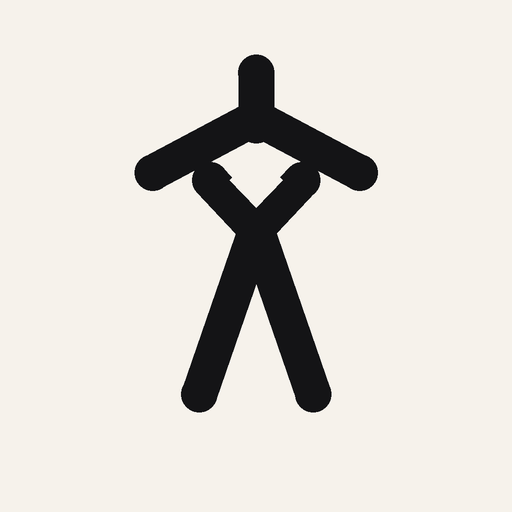
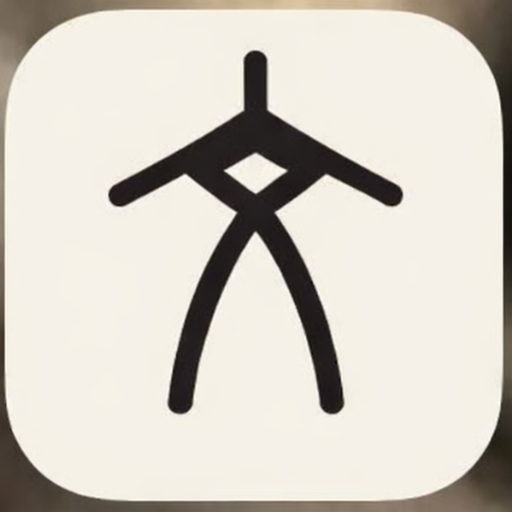
5

Changed region(s): [[0.1875, 0.0938, 0.8125, 0.8125], [0.0, 0.0, 1.0, 1.0]]

diff --git a/app.js b/app.js
@@ -6,17 +6,17 @@ const state = {
   quizDeck: [],
   quizIndex: -1,
   current: null,
-  zoom: 1,
   imageShown: false,
   toolsOpen: false,
   maxCardId: 0,
+  recentOnly: false,
 };
 
 const els = {
   promptCard: document.getElementById('promptCard'),
   quizPrompt: document.getElementById('quizPrompt'),
   quizInfo: document.getElementById('quizInfo'),
-  zoomLabel: document.getElementById('zoomLabel'),
+  viewerMeta: document.getElementById('viewerMeta'),
   imageStage: document.getElementById('imageStage'),
   imageViewport: document.getElementById('imageViewport'),
   viewerTitle: document.getElementById('viewerTitle'),
@@ -34,10 +34,8 @@ const els = {
   nextBtn: document.getElementById('mobileNextBtn'),
   revealBtn: document.getElementById('mobileRevealBtn'),
   shuffleBtn: document.getElementById('shuffleBtn'),
-  resetZoomBtn: document.getElementById('resetZoomBtn'),
-  zoomOutBtn: document.getElementById('zoomOutBtn'),
-  zoomInBtn: document.getElementById('zoomInBtn'),
-  fitBtn: document.getElementById('fitBtn'),
+  latestBtn: document.getElementById('latestBtn'),
+  recentBtn: document.getElementById('recentBtn'),
   hideBtn: document.getElementById('hideBtn'),
   randomBtn: document.getElementById('randomBtn'),
   progressFill: document.getElementById('progressFill'),
@@ -68,17 +66,8 @@ function escapeHtml(text){
     .replaceAll("'", '&#39;');
 }
 
-function setZoom(value, persist = true){
-  state.zoom = clamp(Math.round(value * 100) / 100, 0.5, 5);
-  const img = document.getElementById('quizImage');
-  if (img && !isMobileLayout()) {
-    img.style.transform = `scale(${state.zoom})`;
-  } else if (img) {
-    img.style.transform = 'none';
-    state.zoom = 1;
-  }
-  els.zoomLabel.textContent = `${Math.round(state.zoom * 100)}%`;
-  if (persist) persistState();
+function setViewerMeta(text = '完整顯示'){
+  if (els.viewerMeta) els.viewerMeta.textContent = text;
 }
 
 function setRevealButtonLabels(){
@@ -122,6 +111,7 @@ function updateQuizInfo(){
     updateProgress();
     renderPromptBadges();
     setRevealButtonLabels();
+    if (els.recentBtn) els.recentBtn.textContent = state.recentOnly ? '顯示全部卡片' : '只看近期新增';
     return;
   }
   if (!state.quizDeck.length || state.quizIndex < 0 || !state.current) {
@@ -140,6 +130,7 @@ function updateQuizInfo(){
 
 function showPlaceholder(text){
   els.viewerTitle.textContent = '圖片';
+  setViewerMeta('未顯示');
   els.imageStage.innerHTML = `<div class="placeholder">${escapeHtml(text)}</div>`;
   setRevealButtonLabels();
 }
@@ -168,7 +159,7 @@ function selectCard(card, options = {}){
   state.imageShown = Boolean(options.showImage);
   els.quizPrompt.textContent = card.title || card.name;
   els.viewerTitle.textContent = card.title || '圖片';
-  setZoom(1, false);
+  setViewerMeta('完整顯示');
 
   if (options.showImage) {
     renderImage();
@@ -188,28 +179,7 @@ function renderImage(){
   const img = document.getElementById('quizImage');
   img.addEventListener('load', () => {
     els.imageViewport.scrollTop = 0;
-    if (isMobileLayout()) {
-      img.style.transform = 'none';
-      els.zoomLabel.textContent = '100%';
-    } else {
-      setZoom(state.zoom, false);
-    }
-  });
-
-  let lastTap = 0;
-  img.addEventListener('dblclick', event => {
-    event.preventDefault();
-    if (isMobileLayout()) return;
-    if (state.zoom > 1.1) setZoom(1);
-    else setZoom(2.2);
-  });
-  img.addEventListener('touchend', () => {
-    const now = Date.now();
-    if (now - lastTap < 260 && !isMobileLayout()) {
-      if (state.zoom > 1.1) setZoom(1);
-      else setZoom(2.2);
-    }
-    lastTap = now;
+    setViewerMeta(img.naturalHeight > img.naturalWidth * 1.35 ? '長圖 · 可上下滑動' : '完整顯示');
   });
 
   state.imageShown = true;
@@ -279,10 +249,26 @@ function pickRandomCard(){
 
 function filterCards(){
   const q = els.searchInput.value.trim().toLowerCase();
+  const source = state.recentOnly ? state.cards.filter(isLatestCard) : state.cards;
   state.filteredCards = !q
-    ? [...state.cards]
-    : state.cards.filter(card => (card.title || '').toLowerCase().includes(q) || (card.name || '').toLowerCase().includes(q));
+    ? [...source]
+    : source.filter(card => (card.title || '').toLowerCase().includes(q) || (card.name || '').toLowerCase().includes(q));
   renderCardList();
+}
+
+function toggleRecentOnly(){
+  state.recentOnly = !state.recentOnly;
+  els.recentBtn.textContent = state.recentOnly ? '顯示全部卡片' : '只看近期新增';
+  filterCards();
+  persistState();
+}
+
+function jumpToLatest(){
+  if (!state.cards.length) return;
+  const newest = state.cards.reduce((best, card) => (best && best.id > card.id ? best : card), null);
+  if (!newest) return;
+  ensureDeckContains(newest);
+  selectCard(newest, { showImage: true });
 }
 
 function renderCardList(){
@@ -322,10 +308,10 @@ function persistState(){
     currentName: state.current ? state.current.name : null,
     quizDeckNames: state.quizDeck.map(card => card.name),
     quizIndex: state.quizIndex,
-    zoom: state.zoom,
     imageShown: state.imageShown,
     query: els.searchInput.value || '',
     toolsOpen: state.toolsOpen,
+    recentOnly: state.recentOnly,
   };
   localStorage.setItem('flashcards-mobile-state', JSON.stringify(data));
 }
@@ -341,15 +327,15 @@ function restoreState(){
       ? saved.quizDeckNames.map(name => byName.get(name)).filter(Boolean)
       : [];
     state.quizIndex = Number.isInteger(saved.quizIndex) ? saved.quizIndex : -1;
-    state.zoom = typeof saved.zoom === 'number' ? saved.zoom : 1;
     state.toolsOpen = Boolean(saved.toolsOpen);
+    state.recentOnly = Boolean(saved.recentOnly);
+    if (els.recentBtn) els.recentBtn.textContent = state.recentOnly ? '顯示全部卡片' : '只看近期新增';
     filterCards();
     syncToolsPanel();
 
     const current = saved.currentName ? byName.get(saved.currentName) : null;
     if (current) {
       selectCard(current, { showImage: Boolean(saved.imageShown) });
-      setZoom(state.zoom, false);
     } else {
       updateQuizInfo();
       setRevealButtonLabels();
@@ -428,10 +414,8 @@ els.revealBtn.addEventListener('click', toggleReveal);
 els.shuffleBtn.addEventListener('click', reshuffleQuiz);
 els.hideBtn.addEventListener('click', hideImage);
 els.randomBtn.addEventListener('click', pickRandomCard);
-els.resetZoomBtn.addEventListener('click', () => setZoom(1));
-els.fitBtn.addEventListener('click', () => setZoom(1));
-els.zoomOutBtn.addEventListener('click', () => setZoom(state.zoom - 0.2));
-els.zoomInBtn.addEventListener('click', () => setZoom(state.zoom + 0.2));
+els.latestBtn.addEventListener('click', jumpToLatest);
+els.recentBtn.addEventListener('click', toggleRecentOnly);
 els.searchInput.addEventListener('input', () => {
   filterCards();
   persistState();
@@ -444,17 +428,26 @@ els.clearSearchBtn.addEventListener('click', () => {
 
 let touchStartX = 0;
 let touchStartY = 0;
-els.imageViewport.addEventListener('touchstart', event => {
-  const touch = event.changedTouches[0];
+let swipeTracking = false;
+
+els.promptCard.addEventListener('touchstart', event => {
+  if (event.touches.length !== 1) {
+    swipeTracking = false;
+    return;
+  }
+  const touch = event.touches[0];
   touchStartX = touch.clientX;
   touchStartY = touch.clientY;
+  swipeTracking = true;
 }, { passive: true });
 
-els.imageViewport.addEventListener('touchend', event => {
+els.promptCard.addEventListener('touchend', event => {
+  if (!swipeTracking) return;
   const touch = event.changedTouches[0];
   const dx = touch.clientX - touchStartX;
   const dy = touch.clientY - touchStartY;
-  if (Math.abs(dx) > 55 && Math.abs(dx) > Math.abs(dy) * 1.2) {
+  swipeTracking = false;
+  if (Math.abs(dx) > 55 && Math.abs(dx) > Math.abs(dy) * 1.25) {
     if (dx < 0) nextQuiz();
     else prevQuiz();
   } else if (!state.imageShown && Math.abs(dx) < 10 && Math.abs(dy) < 10 && state.current) {
@@ -466,10 +459,6 @@ window.addEventListener('resize', () => {
   if (!isMobileLayout()) {
     closeListPanel();
     els.listPanel.classList.remove('hidden');
-  }
-  if (isMobileLayout()) {
-    state.zoom = 1;
-    els.zoomLabel.textContent = '100%';
   }
   syncToolsPanel();
 });

diff --git a/styles.css b/styles.css
@@ -7,9 +7,9 @@
   --line:#334155;
   --text:#f8fafc;
   --muted:#98a6bf;
-  --accent:#cc1f1f;
-  --accent-2:#ff5a4f;
-  --accent-3:#981717;
+  --accent:#7f1d1d;
+  --accent-2:#c2410c;
+  --accent-3:#450a0a;
   --gold:#f5c46b;
   --shadow:0 18px 50px rgba(2,8,23,.34);
   --shadow-soft:0 12px 32px rgba(2,8,23,.22);
@@ -20,21 +20,21 @@
 html,body{margin:0;padding:0;min-height:100%;background:radial-gradient(circle at top left,rgba(220,38,38,.16),transparent 24%),radial-gradient(circle at top right,rgba(59,130,246,.10),transparent 28%),linear-gradient(180deg,#07101f 0%,#0b1530 42%,#091222 100%);color:var(--text);font-family:-apple-system,BlinkMacSystemFont,"Segoe UI",Roboto,"Noto Sans CJK SC","PingFang TC","PingFang SC","Hiragino Sans GB","Microsoft YaHei",sans-serif}
 body{overscroll-behavior-y:contain}
 button,input{font:inherit}
-button{border:0;border-radius:18px;padding:14px 12px;background:linear-gradient(180deg,var(--accent),var(--accent-3));color:#fff;font-weight:800;cursor:pointer;box-shadow:0 8px 20px rgba(204,31,31,.26);transition:transform .12s ease, filter .12s ease, box-shadow .12s ease}
+button{border:0;border-radius:18px;padding:14px 12px;background:linear-gradient(180deg,#8b1e1e,#5f1010);color:#fff;font-weight:800;cursor:pointer;box-shadow:0 10px 26px rgba(97,16,16,.24);transition:transform .12s ease, filter .12s ease, box-shadow .12s ease}
 button:hover{filter:brightness(1.04)}
 button:active{transform:translateY(1px)}
 button:disabled{opacity:.5;cursor:not-allowed;transform:none}
-.ghost-btn{background:rgba(255,255,255,.07);box-shadow:none;border:1px solid rgba(255,255,255,.10)}
+.ghost-btn{background:rgba(255,255,255,.045);box-shadow:none;border:1px solid rgba(255,255,255,.09);color:#edf2ff}
 .small-btn{padding:10px 12px;border-radius:14px;font-size:14px}
 .accent-strong{background:linear-gradient(180deg,var(--accent),var(--accent-3))}
 .app-shell{max-width:1280px;margin:0 auto;padding:16px 14px calc(94px + var(--safe-bottom))}
 .topbar{display:flex;justify-content:space-between;align-items:flex-start;gap:14px;margin-bottom:16px}
 .topbar-actions{display:flex;gap:10px;flex-wrap:wrap}
 .brand-block{display:flex;align-items:center;gap:14px}
-.brand-logo{width:62px;height:62px;border-radius:18px;flex:0 0 auto;box-shadow:0 10px 26px rgba(220,38,38,.22);background:#fff}
+.brand-logo{width:62px;height:62px;border-radius:18px;flex:0 0 auto;box-shadow:0 12px 30px rgba(15,23,42,.18);background:#f9f7f2;padding:7px}
 .brand-copy{min-width:0}
 .brand-subtle{margin-top:4px;color:#d6dbea;font-size:15px;font-weight:700;letter-spacing:.01em}
-.eyebrow{font-size:13px;color:#ff8a80;letter-spacing:.16em;text-transform:uppercase;margin-bottom:4px}
+.eyebrow{font-size:12px;color:#c7cedd;letter-spacing:.18em;text-transform:uppercase;margin-bottom:6px}
 h1{margin:0;font-size:clamp(24px,4.5vw,36px);line-height:1.08;letter-spacing:-.02em}
 .layout{display:grid;grid-template-columns:minmax(0,1.72fr) minmax(320px,.94fr);gap:18px;align-items:start}
 .main-panel,.list-panel{display:flex;flex-direction:column;gap:16px}
@@ -55,13 +55,14 @@ h1{margin:0;font-size:clamp(24px,4.5vw,36px);line-height:1.08;letter-spacing:-.0
 .tap-hint{margin-top:10px;color:var(--muted);font-size:13px}
 .progress-track{margin-top:12px;height:8px;border-radius:999px;background:rgba(255,255,255,.08);overflow:hidden}
 .progress-fill{height:100%;width:0;background:linear-gradient(90deg,var(--accent),var(--accent-2));transition:width .18s ease}
-.viewer-card{padding-bottom:16px}
+.viewer-card{padding-bottom:16px;background:linear-gradient(180deg,rgba(18,28,54,.86),rgba(10,18,36,.96))}
 .viewer-topline{margin-bottom:10px}
-.image-viewport{min-height:44vh;max-height:72vh;overflow:auto;-webkit-overflow-scrolling:touch;background:linear-gradient(180deg,#fff,#f8fafc);border-radius:22px;padding:14px;touch-action:pan-y pan-x pinch-zoom;box-shadow:inset 0 0 0 1px rgba(15,23,42,.06)}
-.image-stage{min-height:calc(44vh - 28px);display:block}
+.image-viewport{min-height:44vh;max-height:72vh;overflow:auto;-webkit-overflow-scrolling:touch;background:linear-gradient(180deg,#fdfcf8,#f6f5f1);border-radius:22px;padding:16px;touch-action:pinch-zoom pan-y;box-shadow:inset 0 0 0 1px rgba(15,23,42,.05)}
+.image-stage{min-height:calc(44vh - 28px);display:flex;align-items:flex-start;justify-content:center}
 .placeholder{color:#64748b;padding:46px 14px;text-align:center;line-height:1.7}
-#quizImage{display:block;width:100%;max-width:100%;height:auto;transform-origin:top center;will-change:transform;user-select:none;-webkit-user-drag:none;border-radius:12px;box-shadow:0 2px 14px rgba(15,23,42,.08)}
+#quizImage{display:block;width:auto;max-width:100%;height:auto;transform-origin:top center;will-change:transform;user-select:none;-webkit-user-drag:none;border-radius:12px;box-shadow:0 2px 14px rgba(15,23,42,.08)}
 .button-grid{display:grid;grid-template-columns:repeat(4,minmax(0,1fr));gap:10px}
+.refined-grid{grid-template-columns:repeat(3,minmax(0,1fr))}
 .secondary-grid button{min-height:50px}
 .list-panel{padding:14px;position:sticky;top:12px;max-height:calc(100vh - 24px);overflow:hidden;background:linear-gradient(180deg,rgba(17,29,58,.82),rgba(8,16,34,.94))}
 .list-header h2{margin:0;font-size:20px}
@@ -92,9 +93,9 @@ h1{margin:0;font-size:clamp(24px,4.5vw,36px);line-height:1.08;letter-spacing:-.0
   .mobile-action-bar{display:grid}
   .hidden-mobile-panel{display:none}
   .hidden-mobile-panel.open{display:block}
-  .image-viewport{min-height:0;max-height:none;overflow:visible;padding:10px}
-  .image-stage{min-height:0}
-  #quizImage{width:100%;height:auto;max-height:none;transform:none !important}
+  .image-viewport{min-height:0;max-height:none;overflow:auto;padding:12px 12px 18px}
+  .image-stage{min-height:0;display:block}
+  #quizImage{display:block;width:100%;height:auto;max-height:none;transform:none !important}
   .viewer-card{padding-bottom:18px}
   .topbar{position:sticky;top:0;z-index:12;padding-top:max(8px, env(safe-area-inset-top));background:linear-gradient(180deg,rgba(7,16,31,.96),rgba(7,16,31,.72) 78%,transparent);backdrop-filter:blur(14px)}
 }
@@ -106,5 +107,5 @@ h1{margin:0;font-size:clamp(24px,4.5vw,36px);line-height:1.08;letter-spacing:-.0
   .brand-logo{width:60px;height:60px}
   .prompt-card,.viewer-card,.controls-card{padding:16px}
   .prompt-text{font-size:clamp(22px,9vw,38px)}
-  .button-grid{grid-template-columns:repeat(2,minmax(0,1fr))}
+  .button-grid,.refined-grid{grid-template-columns:repeat(2,minmax(0,1fr))}
 }

diff --git a/index.html b/index.html
@@ -22,7 +22,7 @@
         <div class="brand-copy">
           <div class="eyebrow">Flashcardo</div>
           <h1>Flashcardo</h1>
-          <div class="brand-subtle">古文字 Flashcards / Quiz</div>
+          <div class="brand-subtle">古文字卡片 · Quiz</div>
         </div>
       </div>
       <div class="topbar-actions">
@@ -42,7 +42,7 @@
             <div class="pill" id="cardCounter">0 / 0</div>
           </div>
           <div id="quizPrompt" class="prompt-text">按「開始」進入測驗</div>
-          <div class="tap-hint">輕點這裡可顯示圖片；左右滑動可切換卡片</div>
+          <div class="tap-hint">輕點這裡顯示圖片；在題目卡上左右滑動切換</div>
           <div class="progress-track" aria-hidden="true">
             <div id="progressFill" class="progress-fill"></div>
           </div>
@@ -51,7 +51,7 @@
         <div class="viewer-card">
           <div class="viewer-topline">
             <span id="viewerTitle">圖片</span>
-            <span id="zoomLabel" class="subtle">100%</span>
+            <span id="viewerMeta" class="subtle">完整顯示</span>
           </div>
           <div id="imageViewport" class="image-viewport">
             <div id="imageStage" class="image-stage">
@@ -63,17 +63,15 @@
         <div id="toolsCard" class="controls-card hidden-mobile-panel">
           <div class="controls-head">
             <div class="label no-margin">工具</div>
-            <div class="subtle">瀏覽、抽查、縮放</div>
+            <div class="subtle">抽查、重排、跳看最新</div>
           </div>
-          <div class="button-grid secondary-grid">
-            <button id="startBtn" type="button">開始</button>
+          <div class="button-grid secondary-grid refined-grid">
+            <button id="startBtn" type="button">重新開始</button>
             <button id="shuffleBtn" type="button">重洗順序</button>
             <button id="hideBtn" type="button">隱藏圖片</button>
             <button id="randomBtn" type="button">隨機一張</button>
-            <button id="resetZoomBtn" type="button">重設縮放</button>
-            <button id="zoomOutBtn" type="button">縮小</button>
-            <button id="zoomInBtn" type="button">放大</button>
-            <button id="fitBtn" type="button">適合寬度</button>
+            <button id="latestBtn" type="button">跳到最新</button>
+            <button id="recentBtn" type="button" class="ghost-btn">只看近期新增</button>
           </div>
         </div>
       </section>

diff --git a/sw.js b/sw.js
@@ -1,4 +1,4 @@
-const CACHE_NAME = 'flashcardo-20260402120000';
+const CACHE_NAME = 'flashcardo-logo-exact-v1';
 const CORE_ASSETS = [
   './',
   './index.html',
